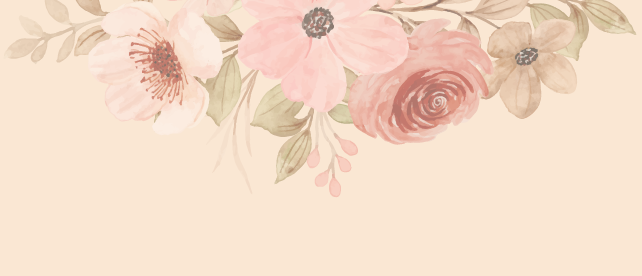
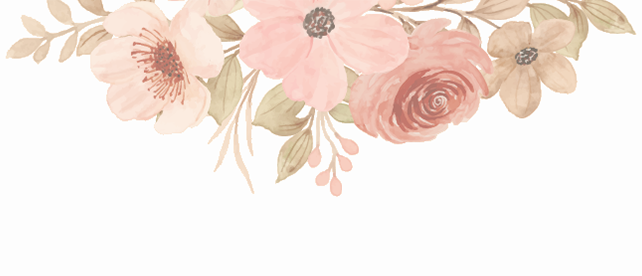
Apply revisions

diff --git a/src/pages/HomePage.tsx b/src/pages/HomePage.tsx
@@ -15,9 +15,11 @@ function HomePage() {
   return (
     <div className="homepage-container">
       <div>
-        <h1 style={{ fontSize: "5em" }}>VIANCA</h1>
-        <h1 style={{ fontSize: "5em" }}>&</h1>
-        <h1 style={{ fontSize: "5em" }}>ERVIN</h1>
+        <h1 className="homepage-names" style={{ marginBottom: "-50px" }}>
+          Vianca
+        </h1>
+        <h1 style={{ fontSize: "3em" }}>&</h1>
+        <h1 className="homepage-names">Ervin</h1>
       </div>
       <div>
         <h3 style={{ letterSpacing: "4px" }}>JUNE 12, 2025</h3>

diff --git a/src/pages/HomePage.scss b/src/pages/HomePage.scss
@@ -3,3 +3,15 @@
   padding: 20px;
   margin-top: 100px;
 }
+
+.homepage-names {
+  font-family: "plumrose";
+  font-size: 12em;
+}
+
+
+@media only screen and (max-width: 480px) {
+  .homepage-names {
+    font-size: 8.5em;
+  }
+}

diff --git a/src/styles/utilities/variables.scss b/src/styles/utilities/variables.scss
@@ -1,3 +1,3 @@
-$primary-color: #FAE7D3;
+$primary-color: #FDFDFD;
 $secondary-color: #333B20;
 $tertiary-color: #954939;
